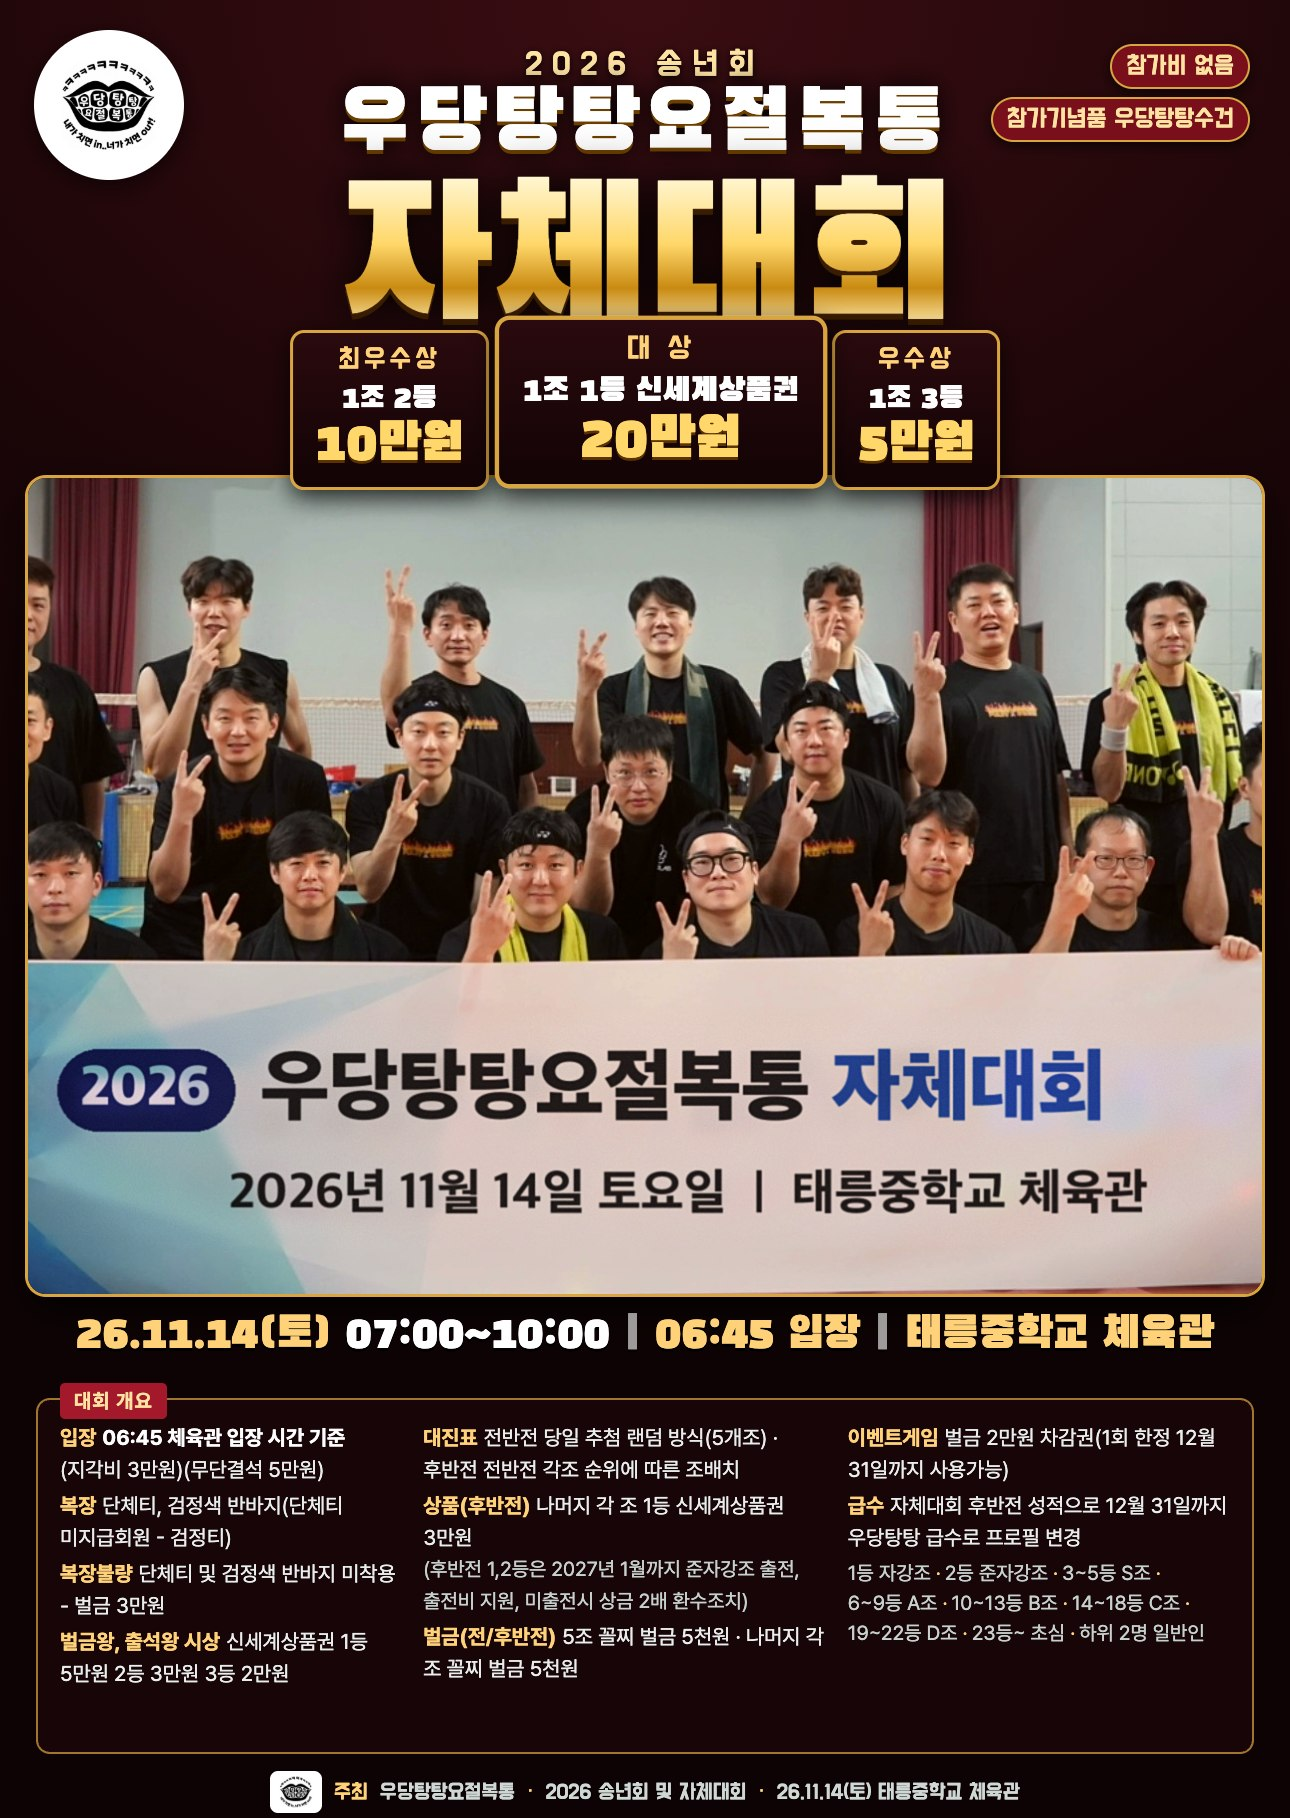
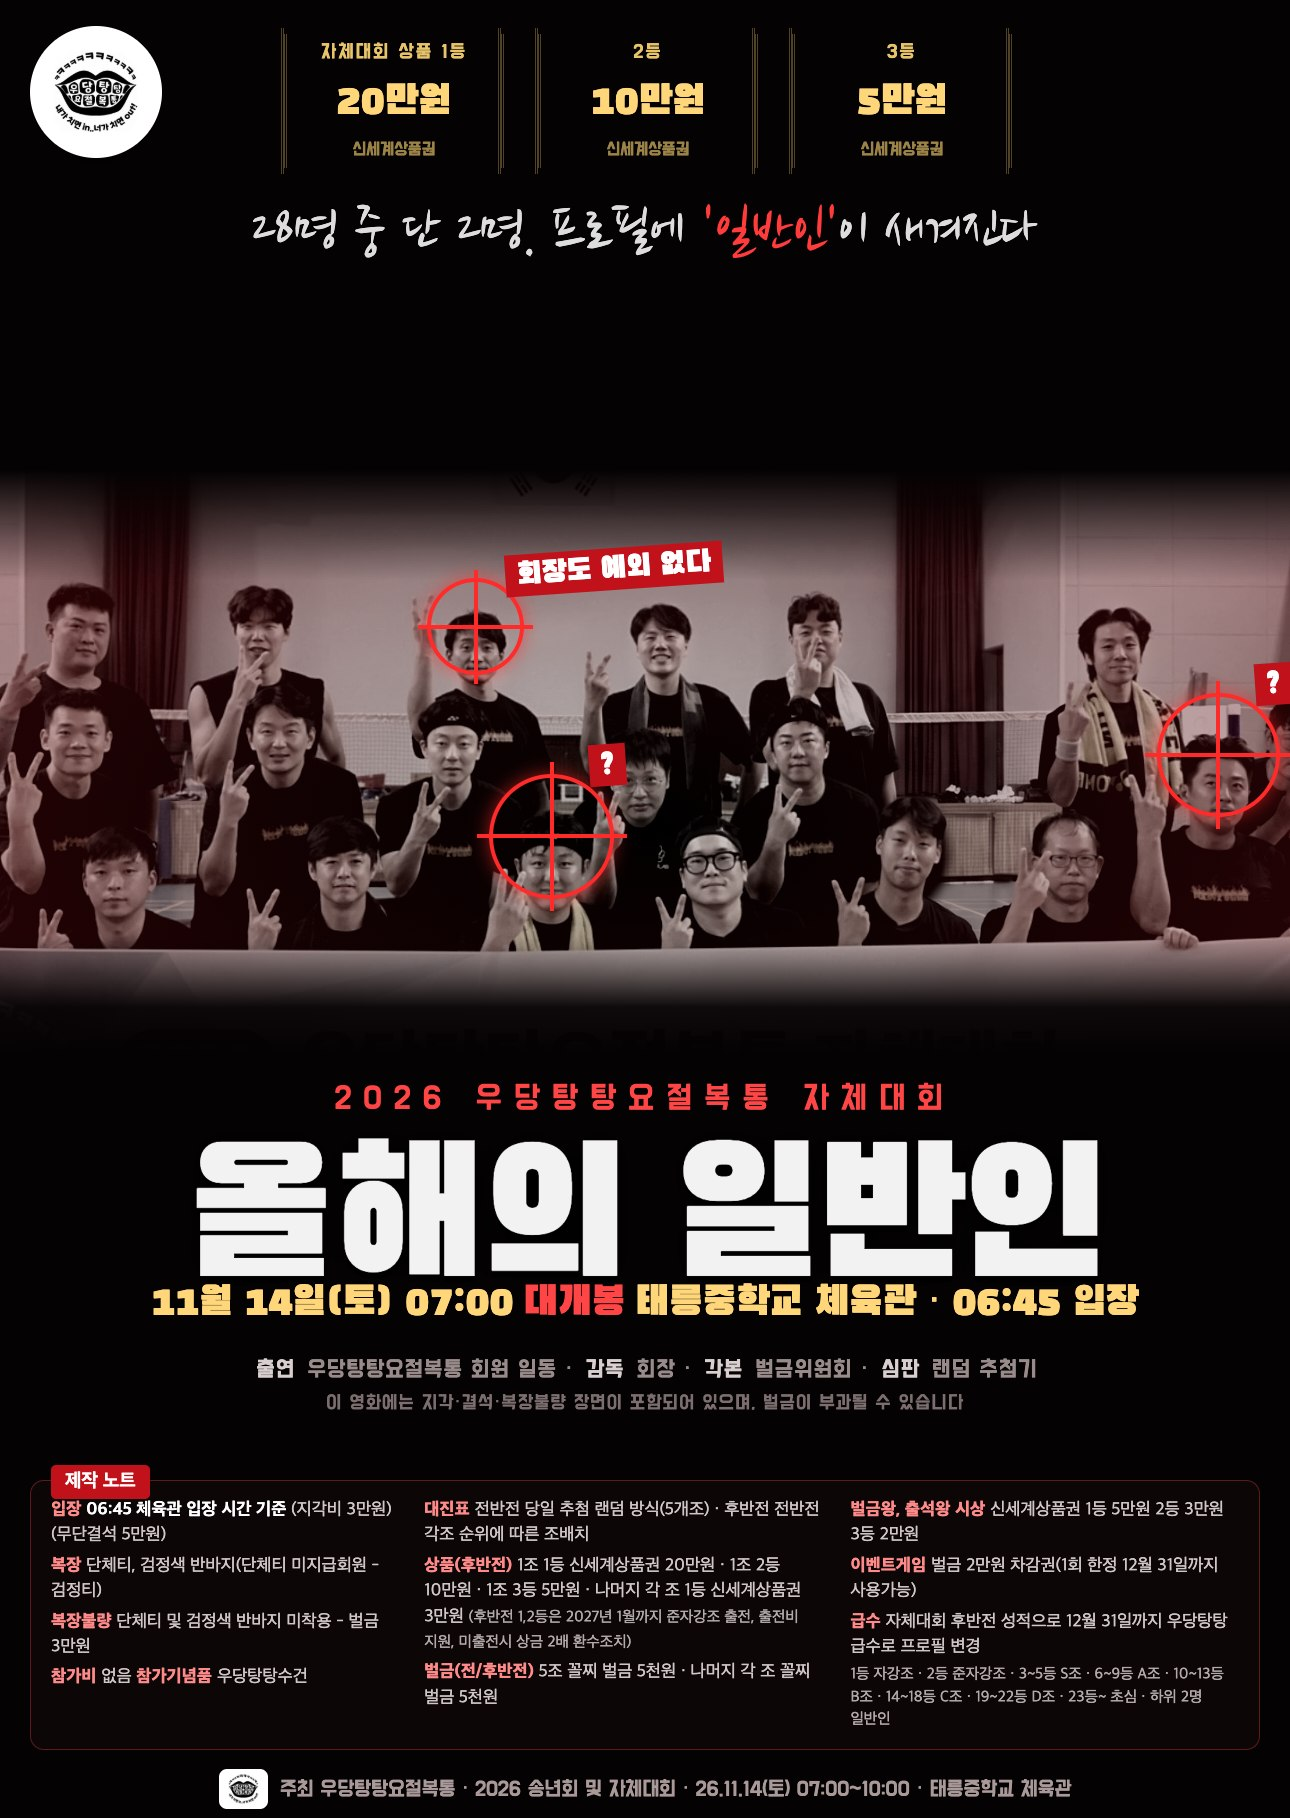
포스터 최종: 올해의 일반인(실사 단체사진, 1명 제거)

diff --git a/index.html b/index.html
@@ -613,7 +613,7 @@ body[data-theme="C"] #show{background:radial-gradient(1200px 700px at 50% 30%,#3
   <div class="box" style="margin-top:16px" id="settingsBox">
     <h2>설정</h2>
     <div class="setgrid">
-      <label>포스터·테마 <select id="setPoster"><option value="A">A 자체대회(실사 단체사진)</option><option value="B">B 흑백복식사</option><option value="C">C 범죄도시 벌금 소탕작전</option></select></label>
+      <label>포스터·테마 <select id="setPoster"><option value="A">A 올해의 일반인</option><option value="B">B 흑백복식사</option><option value="C">C 범죄도시 벌금 소탕작전</option></select></label>
       <label>전반전 시작 <input type="text" id="setR1Start" inputmode="numeric" maxlength="5" placeholder="07:00"></label>
       <label>후반전 시작 <input type="text" id="setR2Start" inputmode="numeric" maxlength="5" placeholder="08:25"></label>
       <label>경기당(분) <input type="number" id="setRoundMin" min="5" max="40"></label>
